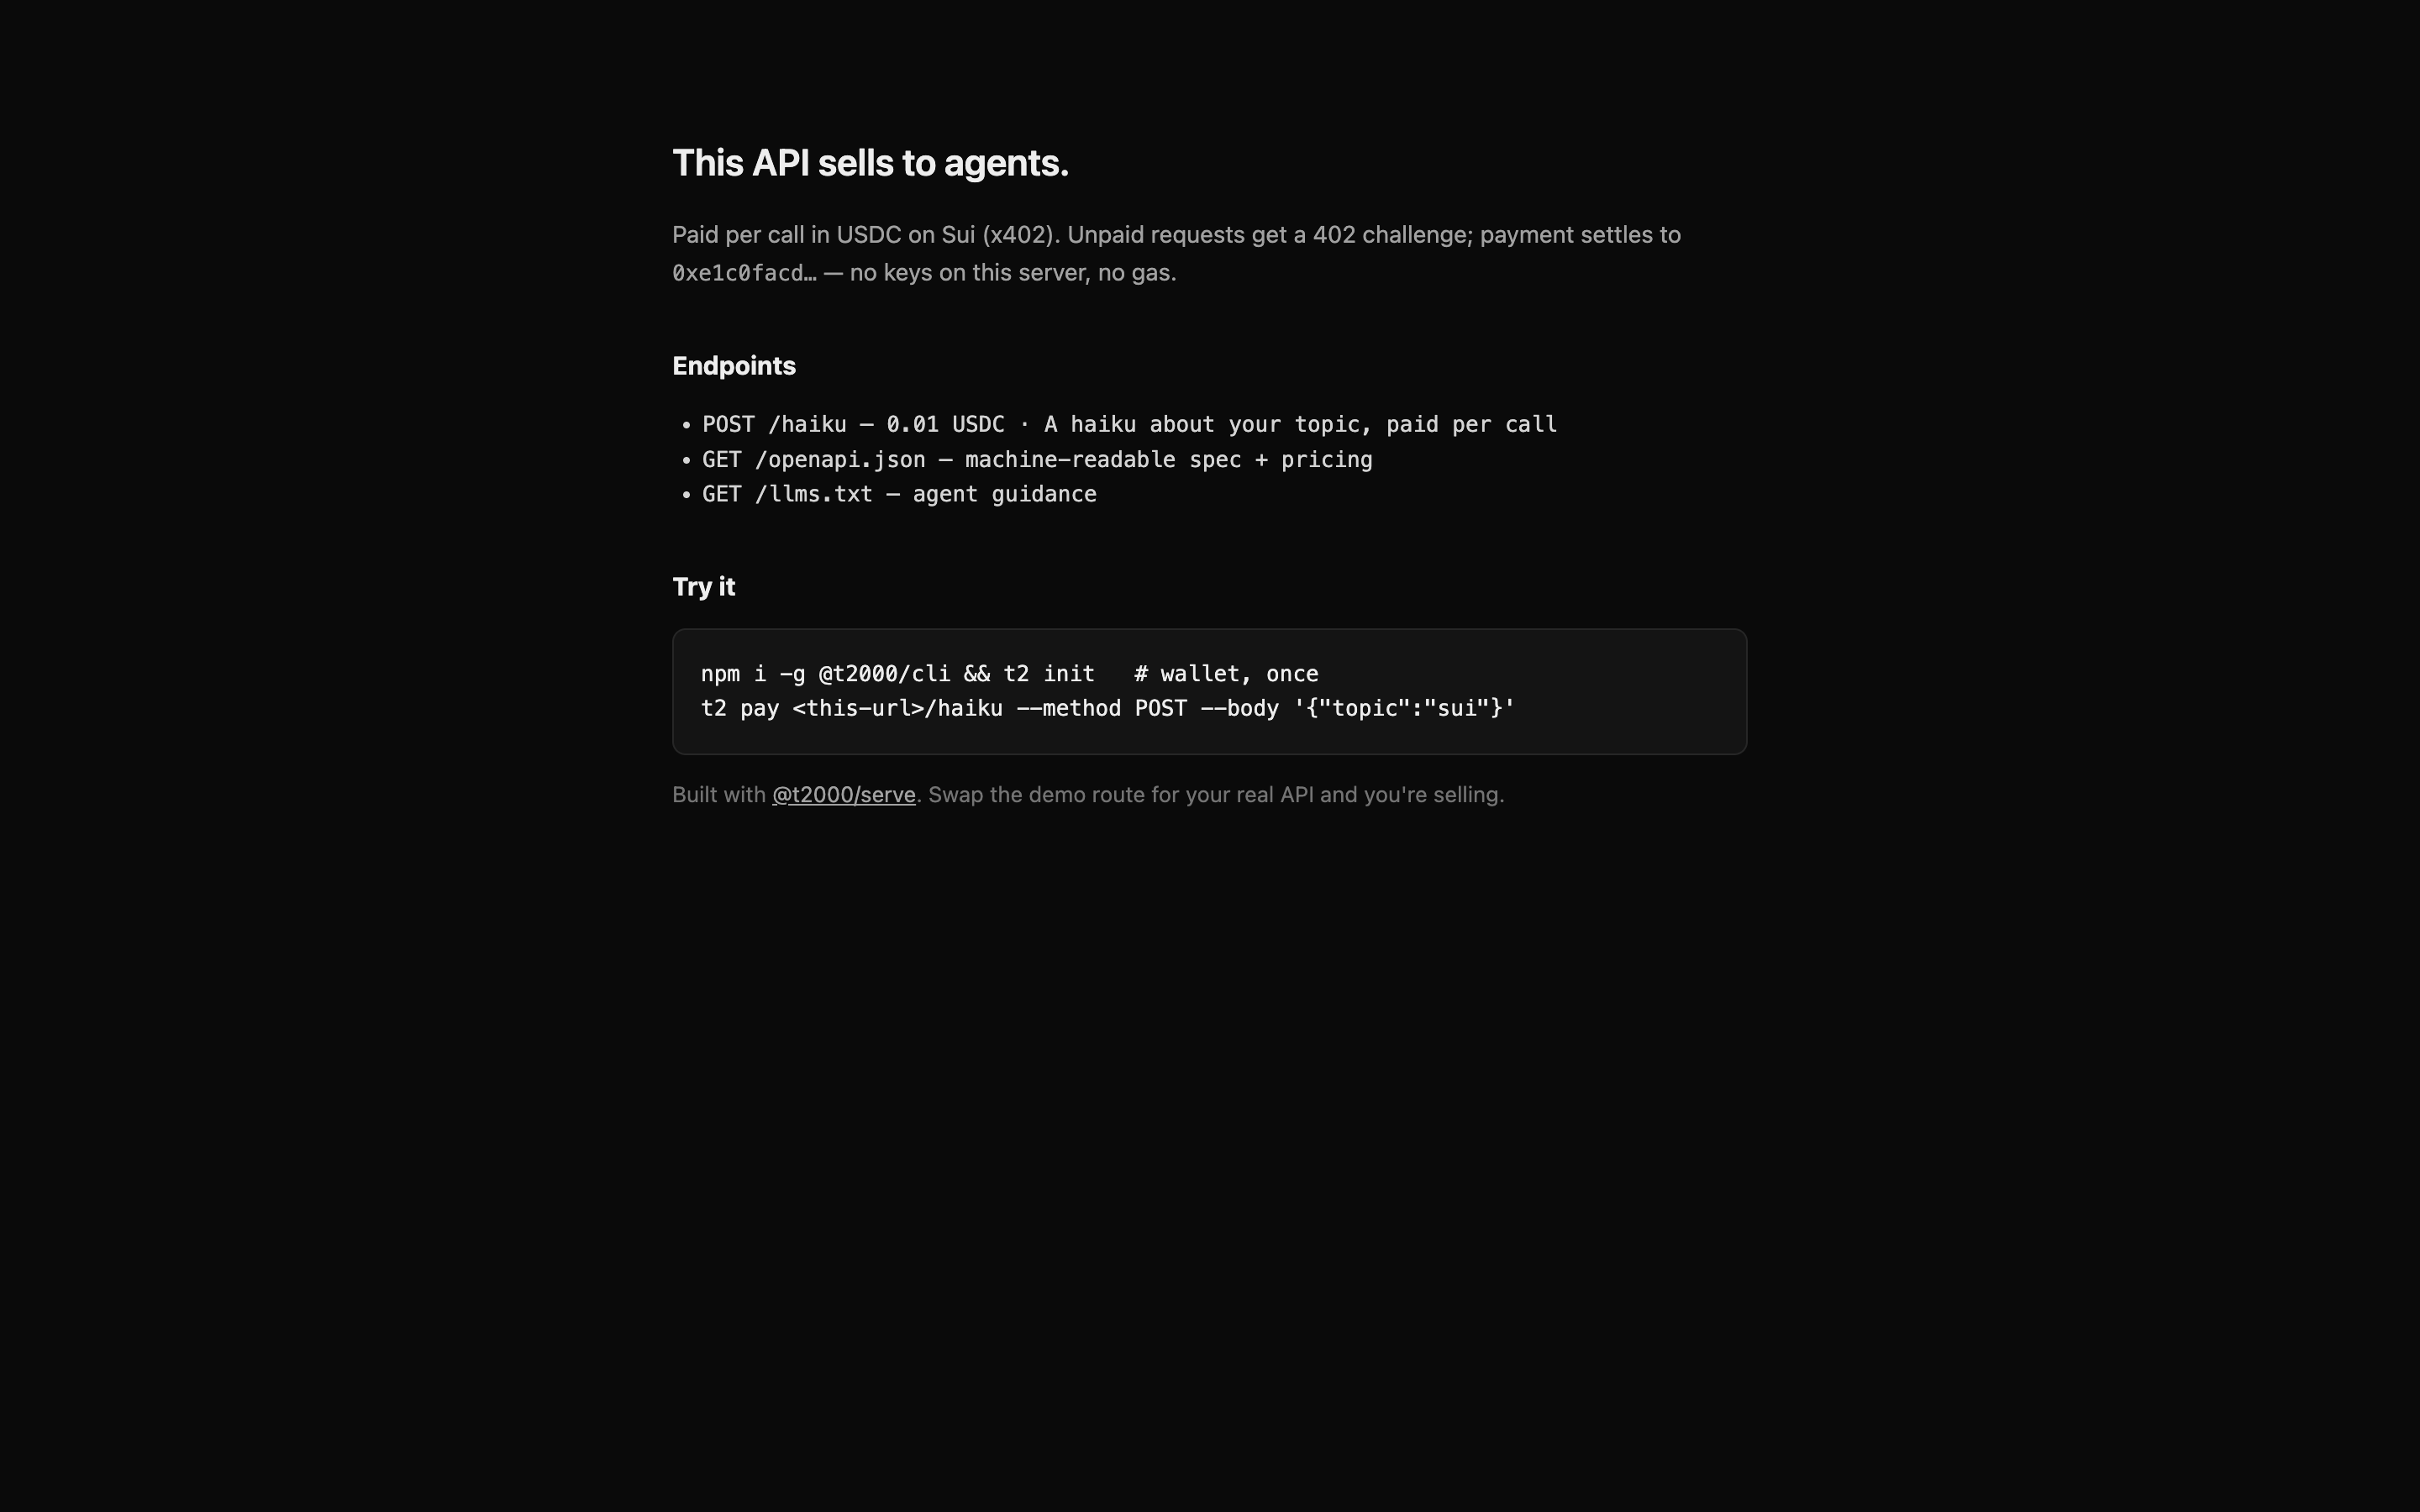
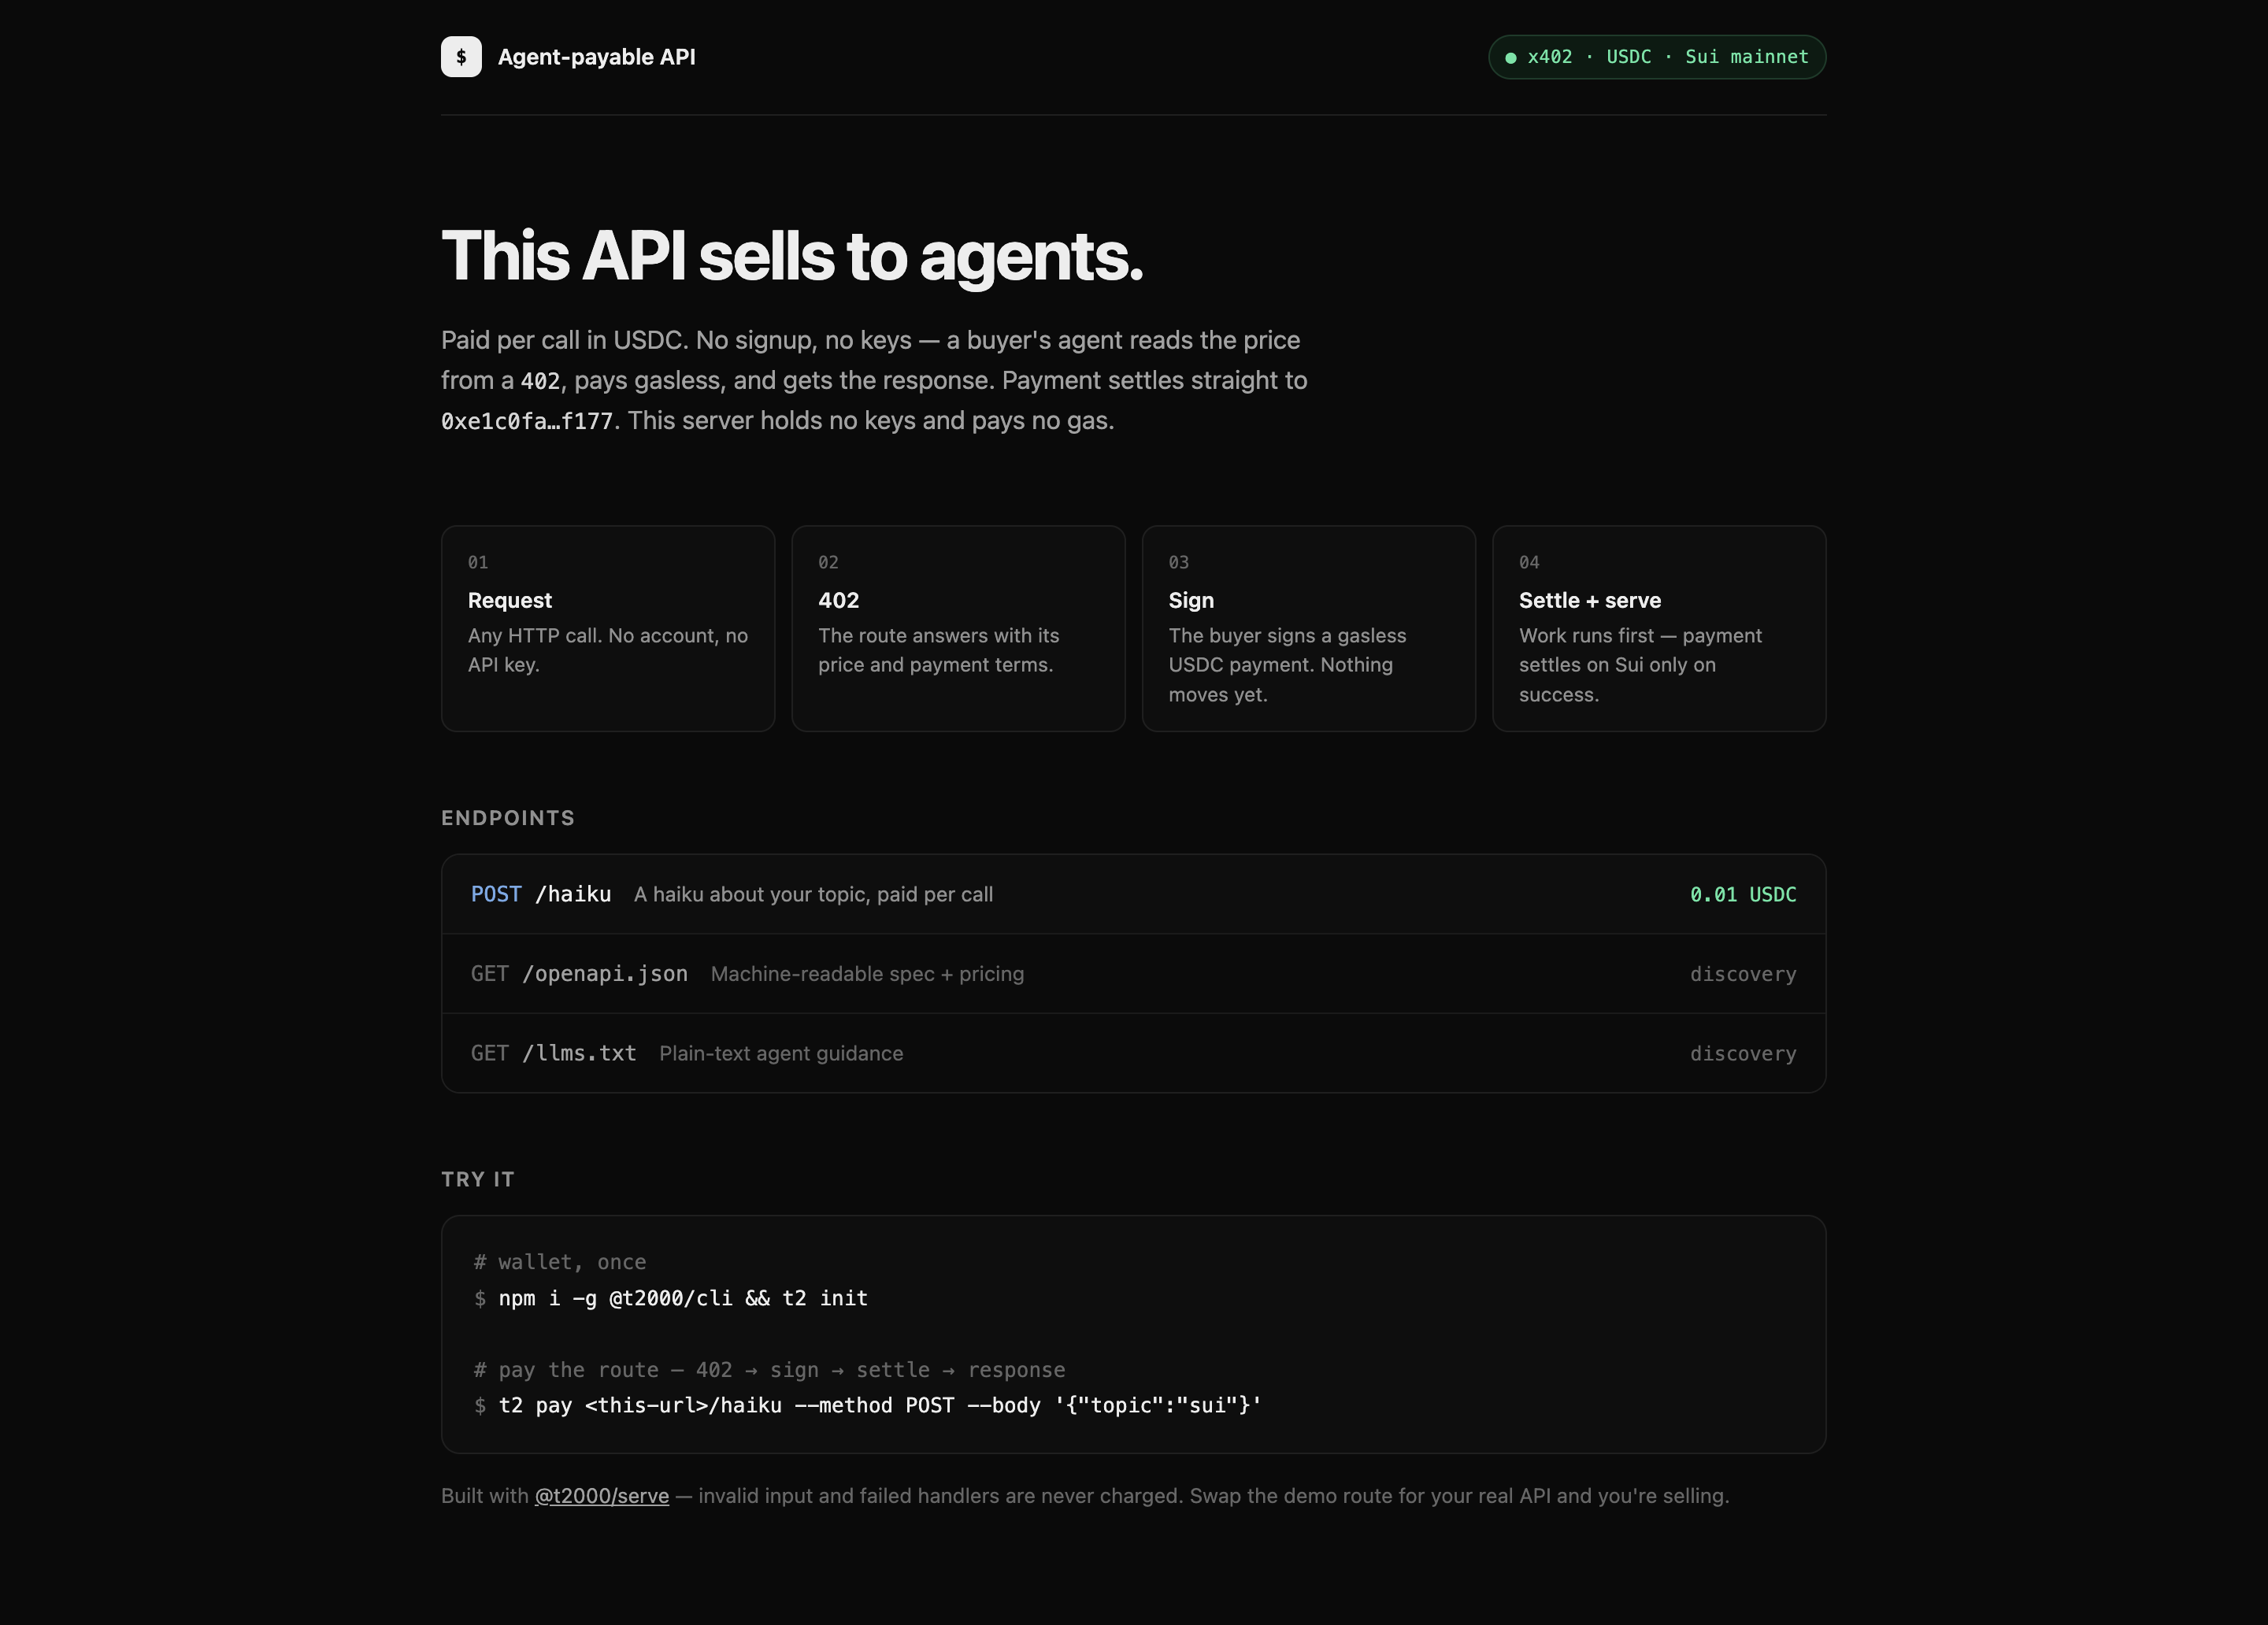
🎨 style(templates): serve-vercel landing redesigned — flow strip, endpoint table, styled try-it; gallery preview recaptured

diff --git a/templates/serve-vercel/app/page.tsx b/templates/serve-vercel/app/page.tsx
@@ -1,52 +1,214 @@
-import '../app/haiku/route'; // register routes so the counts below are live
+import '../app/haiku/route'; // register routes so the listing below is live
 import { serve } from '../lib/serve';
 
-const mono: React.CSSProperties = {
-  fontFamily: 'ui-monospace, SFMono-Regular, Menlo, monospace',
-  fontSize: 13,
-};
+// Zero-dependency landing page (inline styles only — the template ships
+// without a CSS framework). This page is what buyers and their agents see
+// when they open the API's origin in a browser.
+const mono =
+  'ui-monospace, SFMono-Regular, Menlo, monospace';
+
+const FLOW = [
+  { n: '01', title: 'Request', body: 'Any HTTP call. No account, no API key.' },
+  { n: '02', title: '402', body: 'The route answers with its price and payment terms.' },
+  { n: '03', title: 'Sign', body: 'The buyer signs a gasless USDC payment. Nothing moves yet.' },
+  { n: '04', title: 'Settle + serve', body: 'Work runs first — payment settles on Sui only on success.' },
+];
 
 export default function Home() {
   const routes = [...serve.routes.values()];
   return (
-    <main style={{ maxWidth: 640, margin: '0 auto', padding: '64px 24px', lineHeight: 1.6 }}>
-      <h1 style={{ fontSize: 22, fontWeight: 600 }}>This API sells to agents.</h1>
-      <p style={{ color: '#a1a1a1', fontSize: 14 }}>
-        Paid per call in USDC on Sui (x402). Unpaid requests get a 402 challenge; payment settles
-        to <code style={mono}>{serve.payTo.slice(0, 10)}…</code> — no keys on this server, no gas.
-      </p>
-      <h2 style={{ fontSize: 15, marginTop: 32 }}>Endpoints</h2>
-      <ul style={{ ...mono, color: '#d4d4d4', paddingLeft: 18 }}>
-        {routes.map((r) => (
-          <li key={r.meta.path}>
-            POST /{r.meta.path} — {r.meta.priceUsdc ? `${r.meta.priceUsdc} USDC` : 'free'}
-            {r.meta.description ? ` · ${r.meta.description}` : ''}
-          </li>
-        ))}
-        <li>GET /openapi.json — machine-readable spec + pricing</li>
-        <li>GET /llms.txt — agent guidance</li>
-      </ul>
-      <h2 style={{ fontSize: 15, marginTop: 32 }}>Try it</h2>
-      <pre
+    <main style={{ maxWidth: 880, margin: '0 auto', padding: '0 28px 72px', lineHeight: 1.6 }}>
+      {/* Top bar */}
+      <header
         style={{
-          ...mono,
-          background: '#141414',
-          border: '1px solid #262626',
-          borderRadius: 8,
-          padding: 16,
-          overflowX: 'auto',
+          display: 'flex',
+          alignItems: 'center',
+          justifyContent: 'space-between',
+          padding: '22px 0',
+          borderBottom: '1px solid #1f1f1f',
         }}
       >
-        {`npm i -g @t2000/cli && t2 init   # wallet, once
-t2 pay <this-url>/haiku --method POST --body '{"topic":"sui"}'`}
-      </pre>
-      <p style={{ color: '#737373', fontSize: 13 }}>
-        Built with{' '}
-        <a href="https://developers.t2000.ai" style={{ color: '#a1a1a1' }}>
-          @t2000/serve
-        </a>
-        . Swap the demo route for your real API and you&apos;re selling.
-      </p>
+        <div style={{ display: 'flex', alignItems: 'center', gap: 10 }}>
+          <span
+            style={{
+              width: 26,
+              height: 26,
+              borderRadius: 7,
+              background: '#ededed',
+              color: '#0a0a0a',
+              display: 'inline-flex',
+              alignItems: 'center',
+              justifyContent: 'center',
+              fontSize: 12,
+              fontWeight: 700,
+              fontFamily: mono,
+            }}
+          >
+            $
+          </span>
+          <span style={{ fontSize: 14, fontWeight: 600 }}>{serve.name ?? 'Agent-payable API'}</span>
+        </div>
+        <span
+          style={{
+            fontSize: 11.5,
+            fontFamily: mono,
+            color: '#7ee2a8',
+            border: '1px solid #1f3a2a',
+            background: '#0d1a12',
+            borderRadius: 999,
+            padding: '4px 10px',
+            letterSpacing: '0.02em',
+          }}
+        >
+          ● x402 · USDC · Sui mainnet
+        </span>
+      </header>
+
+      {/* Hero */}
+      <section style={{ padding: '64px 0 28px' }}>
+        <h1
+          style={{
+            fontSize: 44,
+            fontWeight: 700,
+            letterSpacing: '-0.03em',
+            lineHeight: 1.08,
+            margin: 0,
+          }}
+        >
+          This API sells to agents.
+        </h1>
+        <p style={{ color: '#a1a1a1', fontSize: 16, maxWidth: 560, margin: '18px 0 0' }}>
+          Paid per call in USDC. No signup, no keys — a buyer&apos;s agent reads the price from a{' '}
+          <code style={{ fontFamily: mono, fontSize: 14, color: '#d4d4d4' }}>402</code>, pays
+          gasless, and gets the response. Payment settles straight to{' '}
+          <code style={{ fontFamily: mono, fontSize: 14, color: '#d4d4d4' }}>
+            {serve.payTo.slice(0, 8)}…{serve.payTo.slice(-4)}
+          </code>
+          . This server holds no keys and pays no gas.
+        </p>
+      </section>
+
+      {/* Flow strip */}
+      <section
+        style={{
+          display: 'grid',
+          gridTemplateColumns: 'repeat(auto-fit, minmax(180px, 1fr))',
+          gap: 10,
+          margin: '26px 0 0',
+        }}
+      >
+        {FLOW.map((s) => (
+          <div
+            key={s.n}
+            style={{
+              border: '1px solid #1f1f1f',
+              borderRadius: 10,
+              padding: '14px 16px',
+              background: '#0e0e0e',
+            }}
+          >
+            <div style={{ fontFamily: mono, fontSize: 11, color: '#666' }}>{s.n}</div>
+            <div style={{ fontSize: 13.5, fontWeight: 600, margin: '4px 0 2px' }}>{s.title}</div>
+            <div style={{ fontSize: 12.5, color: '#8f8f8f', lineHeight: 1.5 }}>{s.body}</div>
+          </div>
+        ))}
+      </section>
+
+      {/* Endpoints */}
+      <section style={{ marginTop: 44 }}>
+        <h2 style={{ fontSize: 13, fontWeight: 600, color: '#8f8f8f', letterSpacing: '0.08em', textTransform: 'uppercase' as const, margin: '0 0 12px' }}>
+          Endpoints
+        </h2>
+        <div style={{ border: '1px solid #1f1f1f', borderRadius: 12, overflow: 'hidden' }}>
+          {routes.map((r, i) => (
+            <div
+              key={r.meta.path}
+              style={{
+                display: 'flex',
+                alignItems: 'baseline',
+                gap: 14,
+                padding: '14px 18px',
+                borderTop: i === 0 ? 'none' : '1px solid #1a1a1a',
+                background: '#0e0e0e',
+              }}
+            >
+              <code style={{ fontFamily: mono, fontSize: 13.5, color: '#ededed', whiteSpace: 'nowrap' as const }}>
+                <span style={{ color: '#7ea8e2' }}>POST</span> /{r.meta.path}
+              </code>
+              <span style={{ fontSize: 13, color: '#8f8f8f', flex: 1 }}>{r.meta.description}</span>
+              <span
+                style={{
+                  fontFamily: mono,
+                  fontSize: 12.5,
+                  color: '#7ee2a8',
+                  whiteSpace: 'nowrap' as const,
+                }}
+              >
+                {r.meta.priceUsdc ? `${r.meta.priceUsdc} USDC` : 'free'}
+              </span>
+            </div>
+          ))}
+          {[
+            { path: 'openapi.json', desc: 'Machine-readable spec + pricing' },
+            { path: 'llms.txt', desc: 'Plain-text agent guidance' },
+          ].map((d) => (
+            <div
+              key={d.path}
+              style={{
+                display: 'flex',
+                alignItems: 'baseline',
+                gap: 14,
+                padding: '14px 18px',
+                borderTop: '1px solid #1a1a1a',
+                background: '#0b0b0b',
+              }}
+            >
+              <code style={{ fontFamily: mono, fontSize: 13.5, color: '#a1a1a1', whiteSpace: 'nowrap' as const }}>
+                <span style={{ color: '#666' }}>GET</span> /{d.path}
+              </code>
+              <span style={{ fontSize: 13, color: '#666', flex: 1 }}>{d.desc}</span>
+              <span style={{ fontFamily: mono, fontSize: 12.5, color: '#666' }}>discovery</span>
+            </div>
+          ))}
+        </div>
+      </section>
+
+      {/* Try it */}
+      <section style={{ marginTop: 44 }}>
+        <h2 style={{ fontSize: 13, fontWeight: 600, color: '#8f8f8f', letterSpacing: '0.08em', textTransform: 'uppercase' as const, margin: '0 0 12px' }}>
+          Try it
+        </h2>
+        <pre
+          style={{
+            fontFamily: mono,
+            fontSize: 13,
+            background: '#0e0e0e',
+            border: '1px solid #1f1f1f',
+            borderRadius: 12,
+            padding: '18px 20px',
+            overflowX: 'auto',
+            margin: 0,
+            lineHeight: 1.75,
+          }}
+        >
+          <span style={{ color: '#666' }}># wallet, once</span>
+          {'\n'}
+          <span style={{ color: '#666' }}>$ </span>npm i -g @t2000/cli && t2 init
+          {'\n\n'}
+          <span style={{ color: '#666' }}># pay the route — 402 → sign → settle → response</span>
+          {'\n'}
+          <span style={{ color: '#666' }}>$ </span>t2 pay &lt;this-url&gt;/haiku --method POST --body{' '}
+          {`'{"topic":"sui"}'`}
+        </pre>
+        <p style={{ color: '#666', fontSize: 13, margin: '16px 0 0' }}>
+          Built with{' '}
+          <a href="https://developers.t2000.ai/sell-to-agents/overview" style={{ color: '#a1a1a1' }}>
+            @t2000/serve
+          </a>{' '}
+          — invalid input and failed handlers are never charged. Swap the demo route for your real
+          API and you&apos;re selling.
+        </p>
+      </section>
     </main>
   );
 }